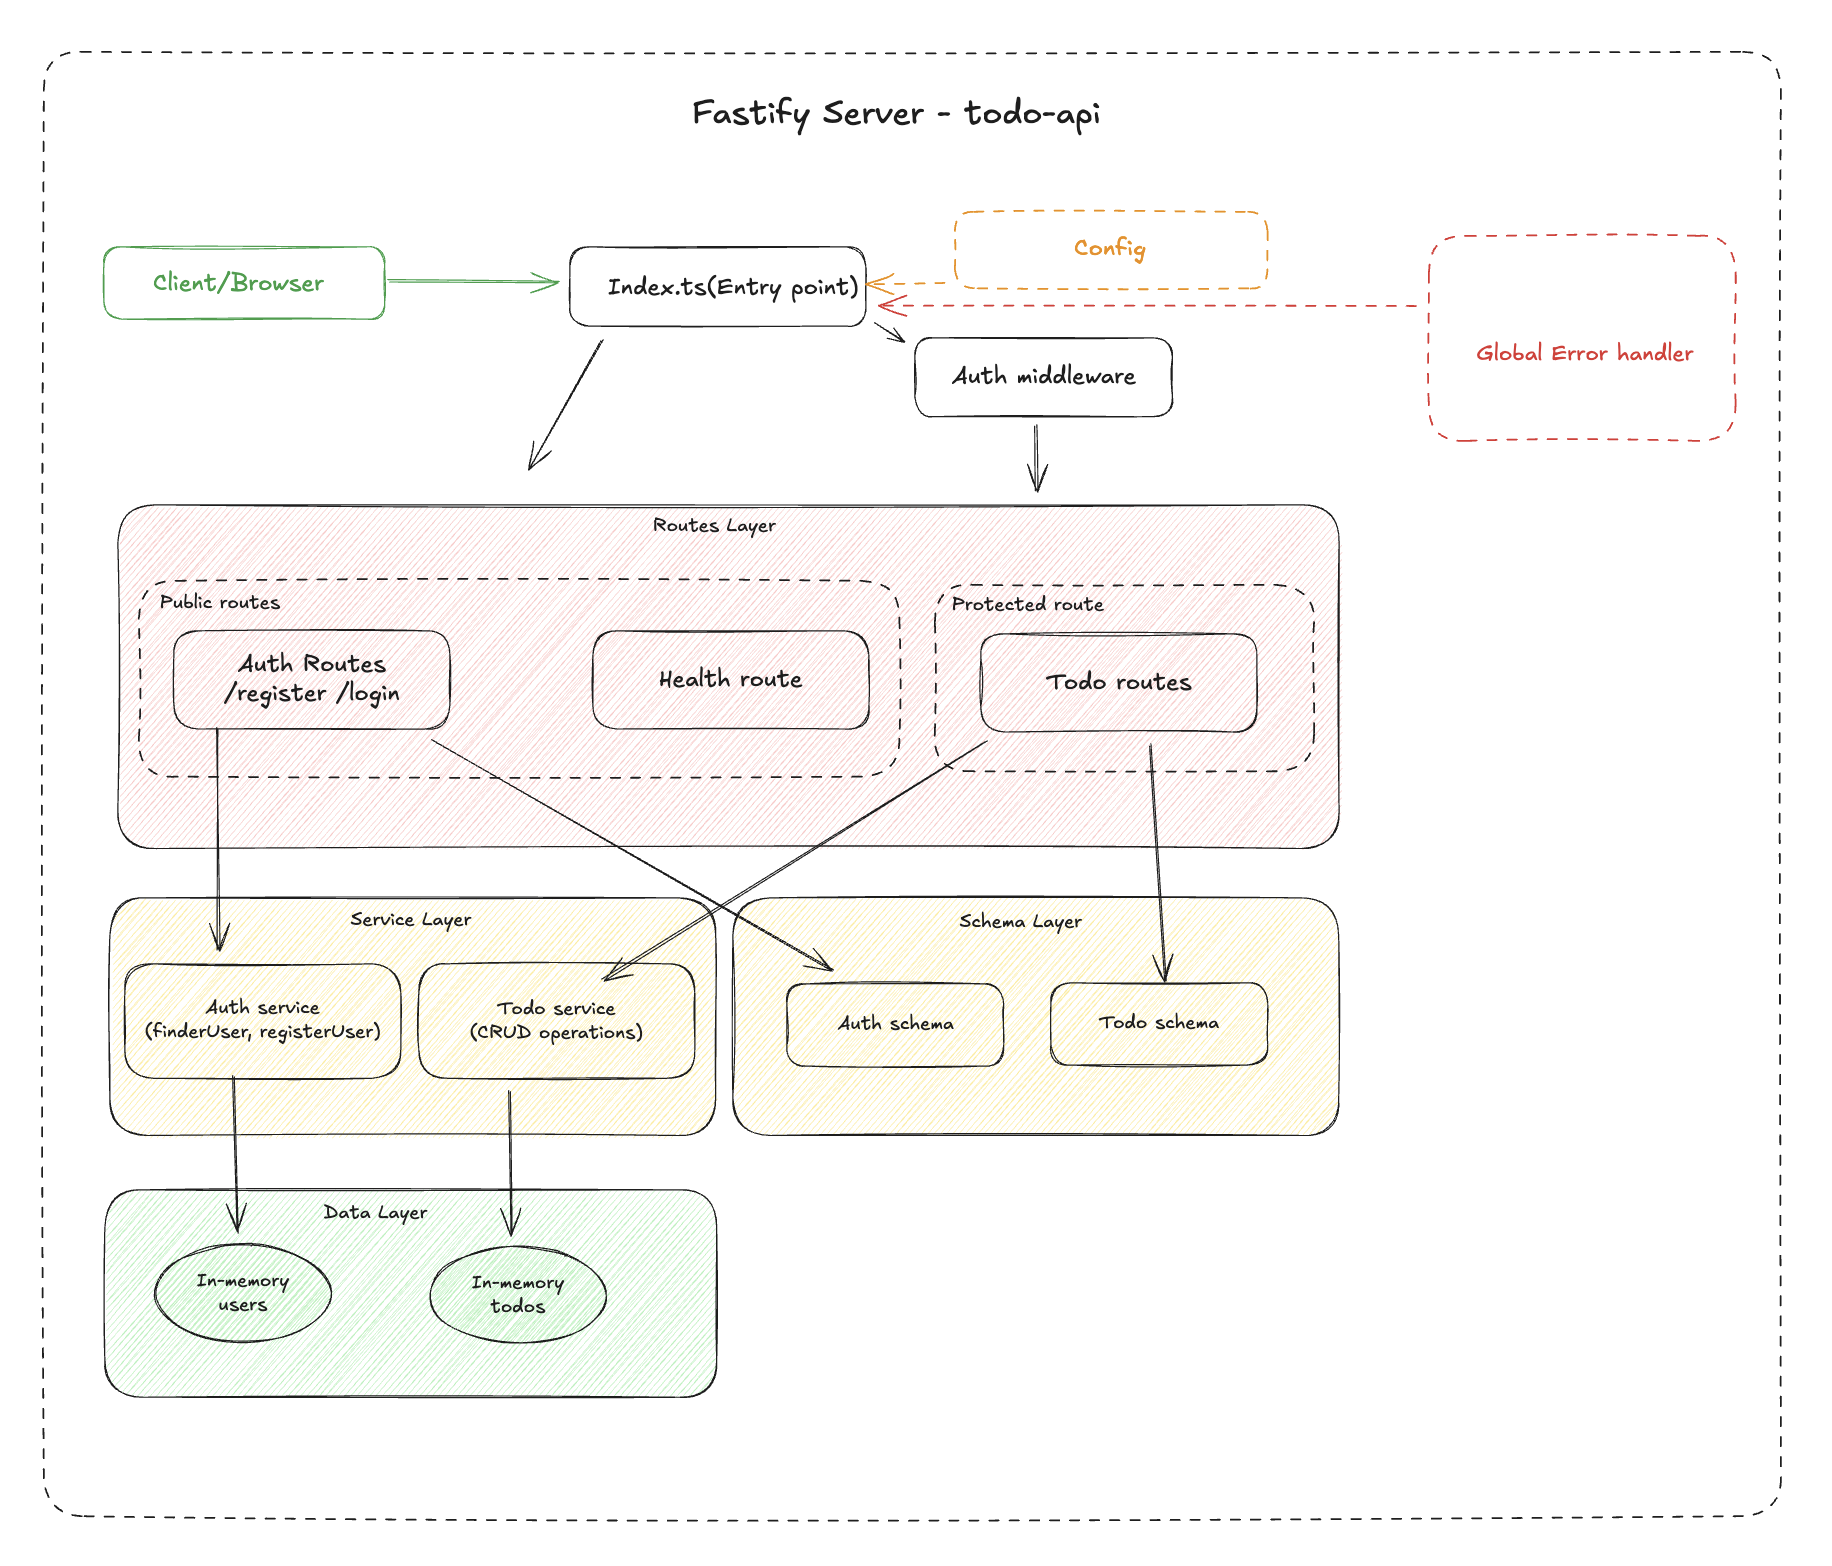
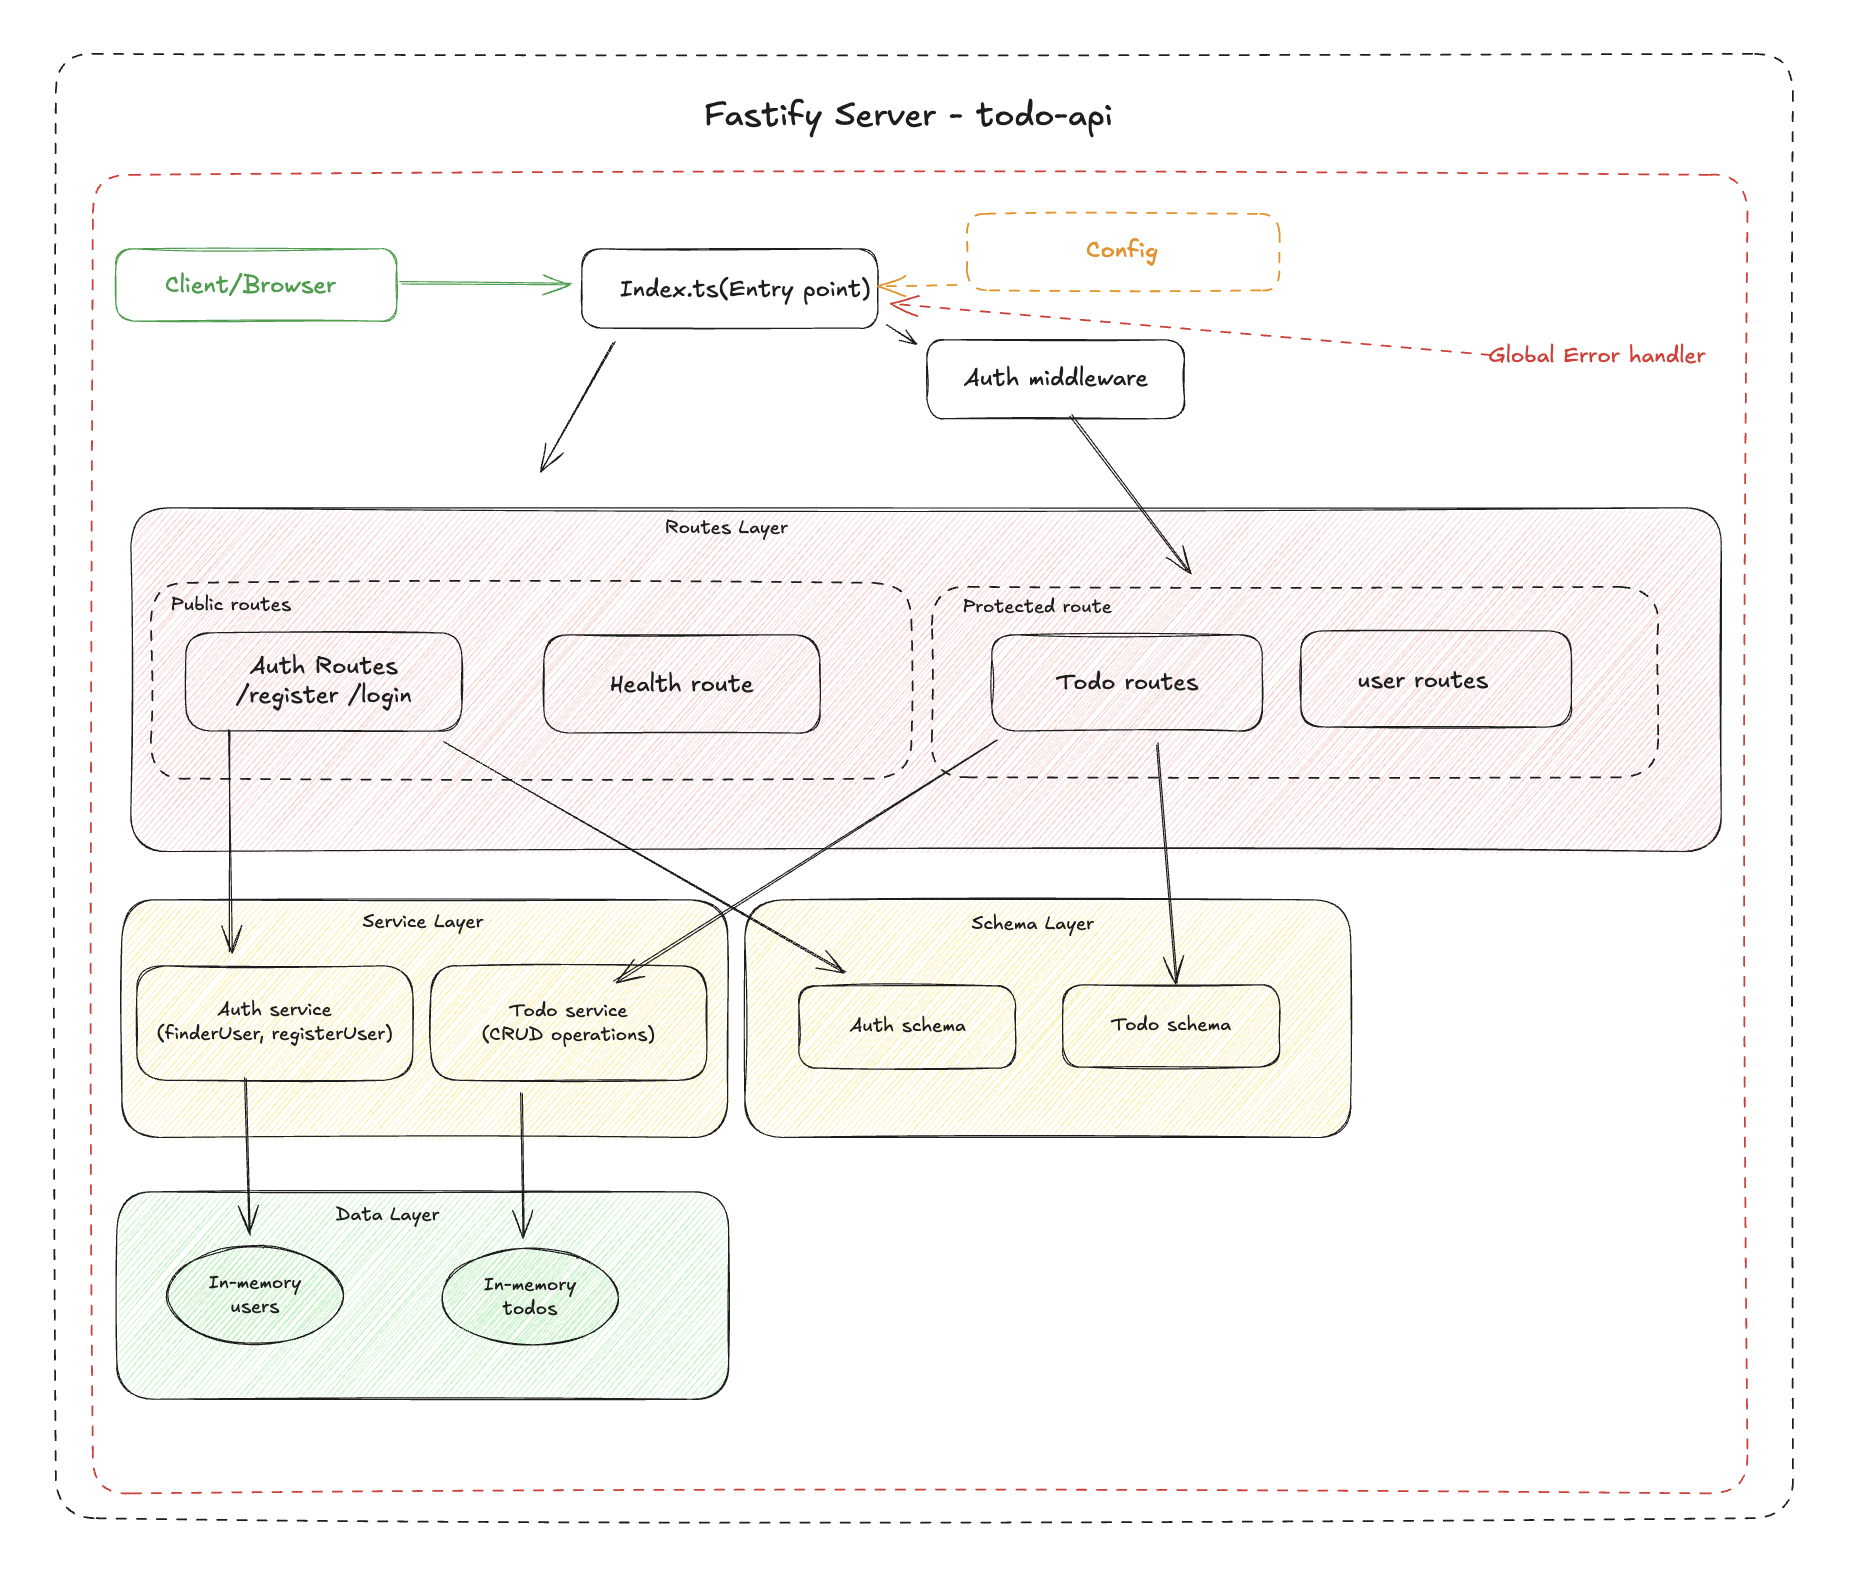
Add user ID system and GET /me endpoint

diff --git a/routes/todo.ts b/routes/todo.ts
@@ -15,7 +15,7 @@ import {
 
 export async function todoRoutes(server: FastifyInstance) {
   server.get("/todos", async (request, reply) => {
-    const todos = getAllTodos(request.user.username);
+    const todos = getAllTodos(request.user.userId);
     return reply.send(todos);
   });
 
@@ -28,7 +28,7 @@ export async function todoRoutes(server: FastifyInstance) {
     },
     async (request: FastifyRequest<{ Body: CreateTodoBody }>, reply) => {
       const { title } = request.body;
-      const userId = request.user.username;
+      const userId = request.user.userId;
       const newTodo = addTodo(title, userId);
 
       return reply.code(201).send(newTodo);
@@ -39,7 +39,7 @@ export async function todoRoutes(server: FastifyInstance) {
     "/todos/:id",
     async (request, reply) => {
       const { id } = request.params;
-      const userId = request.user.username;
+      const userId = request.user.userId;
       const todo = getTodoById(id, userId);
       if (!todo) {
         return reply.notFound("Todo not found");
@@ -59,7 +59,7 @@ export async function todoRoutes(server: FastifyInstance) {
     async (request, reply) => {
       const { id } = request.params;
       const updates = request.body;
-      const userId = request.user.username;
+      const userId = request.user.userId;
 
       const updatedTodo = updateTodo(id, userId, updates);
 
@@ -75,7 +75,7 @@ export async function todoRoutes(server: FastifyInstance) {
     "/todos/:id",
     async (request, reply) => {
       const { id } = request.params;
-      const userId = request.user.username;
+      const userId = request.user.userId;
       const deleted = deleteTodoById(id, userId);
 
       if (!deleted) {

diff --git a/__test__/routes/api.test.ts b/__test__/routes/api.test.ts
@@ -6,6 +6,7 @@ import { authMiddleware } from "../../middleware/auth.js";
 import { errorHandler } from "../../middleware/errorHandler.js";
 import { authRoutes } from "../../routes/auth.js";
 import { todoRoutes } from "../../routes/todo.js";
+import { userRoutes } from "../../routes/user.js";
 
 describe("API Integration Tests", () => {
   let server: FastifyInstance;
@@ -32,6 +33,7 @@ describe("API Integration Tests", () => {
     await server.register(async function (protectedScope) {
       protectedScope.addHook("preHandler", authMiddleware);
       await protectedScope.register(todoRoutes);
+      await protectedScope.register(userRoutes);
     });
 
     // Get tokens to ready to use
@@ -112,6 +114,32 @@ describe("API Integration Tests", () => {
       const res = await server.inject({
         method: "GET",
         url: "/todos",
+      });
+
+      expect(res.statusCode).toBe(401);
+    });
+  });
+
+  describe("GET /me", () => {
+    it("should return current user info with valid token", async () => {
+      const res = await server.inject({
+        method: "GET",
+        url: "/me",
+        headers: {
+          authorization: `Bearer ${aliceToken}`,
+        },
+      });
+
+      expect(res.statusCode).toBe(200);
+      const body = JSON.parse(res.body);
+      expect(body.userId).toBe("550e8400-e29b-41d4-a716-446655440001");
+      expect(body.username).toBe("alice");
+    });
+
+    it("should reject request without token", async () => {
+      const res = await server.inject({
+        method: "GET",
+        url: "/me",
       });
 
       expect(res.statusCode).toBe(401);

diff --git a/__test__/services/auth.test.ts b/__test__/services/auth.test.ts
@@ -1,23 +1,24 @@
 import { describe, it, expect } from "@jest/globals";
-import { findUser } from "../../services/auth.js";
+import { authenticateUser } from "../../services/auth.js";
 
 describe("Authentication Service", () => {
-  describe("finderUser", () => {
+  describe("authenticateUser", () => {
     it("should return user when credentials are valid", async () => {
       const username = "alice";
       const password = "admin123";
 
-      const user = await findUser(username, password);
+      const user = await authenticateUser(username, password);
 
       expect(user).toBeDefined();
       expect(user?.username).toBe("alice");
+      expect(user?.userId).toBe("550e8400-e29b-41d4-a716-446655440001");
     });
 
     it("should return undefined when username does not exist", async () => {
       const username = "nosuchuser";
       const password = "admin123";
 
-      const user = await findUser(username, password);
+      const user = await authenticateUser(username, password);
 
       expect(user).toBeUndefined();
     });
@@ -26,7 +27,7 @@ describe("Authentication Service", () => {
       const username = "alice";
       const password = "wrongpassword";
 
-      const user = await findUser(username, password);
+      const user = await authenticateUser(username, password);
 
       expect(user).toBeUndefined();
     });

diff --git a/routes/auth.ts b/routes/auth.ts
@@ -1,5 +1,5 @@
 import { type FastifyInstance } from "fastify";
-import { findUser, registerUser } from "../services/auth.js";
+import { authenticateUser, registerUser } from "../services/auth.js";
 import {
   LoginSchema,
   RegisterSchema,
@@ -15,14 +15,17 @@ export async function authRoutes(server: FastifyInstance) {
     },
     async (request, reply) => {
       const { username, password } = request.body;
-      const user = await findUser(username, password);
+      const user = await authenticateUser(username, password);
 
       if (!user) {
         return reply.unauthorized("Invalid credentials");
       }
 
-      const token = server.jwt.sign({ username });
-      return reply.send({ token });
+      const token = server.jwt.sign({
+        userId: user.userId,
+        username: user.username,
+      });
+      return reply.send({ token, username });
     }
   );
 
@@ -40,9 +43,12 @@ export async function authRoutes(server: FastifyInstance) {
       }
 
       // auto login after register
-      const token = server.jwt.sign({ username: newUser.username });
+      const token = server.jwt.sign({
+        userId: newUser.userId,
+        username: newUser.username,
+      });
 
-      return reply.code(201).send({ token });
+      return reply.code(201).send({ token, username });
     }
   );
 }

diff --git a/services/auth.ts b/services/auth.ts
@@ -1,6 +1,7 @@
 import bcrypt from "bcrypt";
 
 interface UserData {
+  userId: string;
   username: string;
   password: string;
 }
@@ -8,10 +9,12 @@ interface UserData {
 // a hashPasswords function previously defined to generate the hash for passwords for both admin and user now used here
 const users: UserData[] = [
   {
+    userId: "550e8400-e29b-41d4-a716-446655440001",
     username: "alice",
     password: "$2b$10$KQC/rQL.EGE/adX1Gnb8ceJ2Q79NXpuhjKfB3S3HG0udwl4vQKU2q",
   },
   {
+    userId: "550e8400-e29b-41d4-a716-446655440002",
     username: "bob",
     password: "$2b$10$YNP7HfQn.cjJsH5ETlGMPuTnvJIbewNFfKyA2C/xXck.PjKX3xJ8y",
   },
@@ -38,6 +41,7 @@ export async function registerUser(
   const hashedPassword = await hashPassword(password);
 
   const newUser: UserData = {
+    userId: crypto.randomUUID(),
     username,
     password: hashedPassword,
   };
@@ -47,7 +51,7 @@ export async function registerUser(
   return newUser;
 }
 
-export async function findUser(
+export async function authenticateUser(
   username: string,
   password: string
 ): Promise<UserData | undefined> {

diff --git a/index.ts b/index.ts
@@ -9,10 +9,11 @@ import { healthRoutes } from "./routes/health.js";
 import sensible from "@fastify/sensible";
 import jwt from "@fastify/jwt";
 import { config } from "./config/env.js";
+import { userRoutes } from "./routes/user.js";
 
 declare module "@fastify/jwt" {
   interface FastifyJWT {
-    payload: { username: string };
+    payload: User;
     user: User;
   }
 }
@@ -45,6 +46,7 @@ server.register(async function (protectedScope) {
   // middleware
   protectedScope.addHook("preHandler", authMiddleware);
   protectedScope.register(todoRoutes);
+  protectedScope.register(userRoutes);
 });
 
 server.listen({ port: config.port, host: config.host }, (err, address) => {

diff --git a/routes/user.ts b/routes/user.ts
@@ -1,0 +1,10 @@
+import type { FastifyInstance } from "fastify";
+
+export async function userRoutes(server: FastifyInstance) {
+  server.get("/me", async (request, reply) => {
+    return reply.send({
+      userId: request.user.userId,
+      username: request.user.username,
+    });
+  });
+}

diff --git a/types/index.ts b/types/index.ts
@@ -1,4 +1,5 @@
 export interface User {
+  userId: string;
   username: string;
 }
 

diff --git a/README.md b/README.md
@@ -4,7 +4,7 @@ A RESTful Todo API built with Fastify and TypeScript, featuring owner-based auth
 
 ## Features
 
-- **Authentication & Authorization**: JWT-based authentication with owner-based access control
+- **Authentication & Authorization**: JWT-based authentication with UUID-based user identification and owner-based access control
 - **CRUD Operations**: Full todo management (Create, Read, Update, Delete)
 - **Type Safety**: Built with TypeScript and runtime schema validation
 - **Docker Support**: Containerized application ready for deployment
@@ -122,7 +122,8 @@ Content-Type: application/json
 
 ```json
 {
-  "token": "eyJhbGciOiJIUzI1NiIsInR5cCI6IkpXVCJ9.eyJ1c2VybmFtZSI6ImFsaWNlIiwiaWF0IjoxNzM..."
+  "token": "eyJhbGciOiJIUzI1NiIsInR5cCI6IkpXVCJ9.eyJ1c2VybmFtZSI6ImFsaWNlIiwiaWF0IjoxNzM...",
+  "username": "alice"
 }
 ```
 
@@ -130,6 +131,24 @@ Content-Type: application/json
 
 - User 1: `username: alice, password: admin123`
 - User 2: `username: bob, password: user123`
+
+#### Get Current User
+
+```bash
+GET /me
+Authorization: Bearer <token>
+```
+
+Returns information about the currently authenticated user.
+
+**Response:**
+
+```json
+{
+  "userId": "550e8400-e29b-41d4-a716-446655440001",
+  "username": "alice"
+}
+```
 
 ### Todos
 
